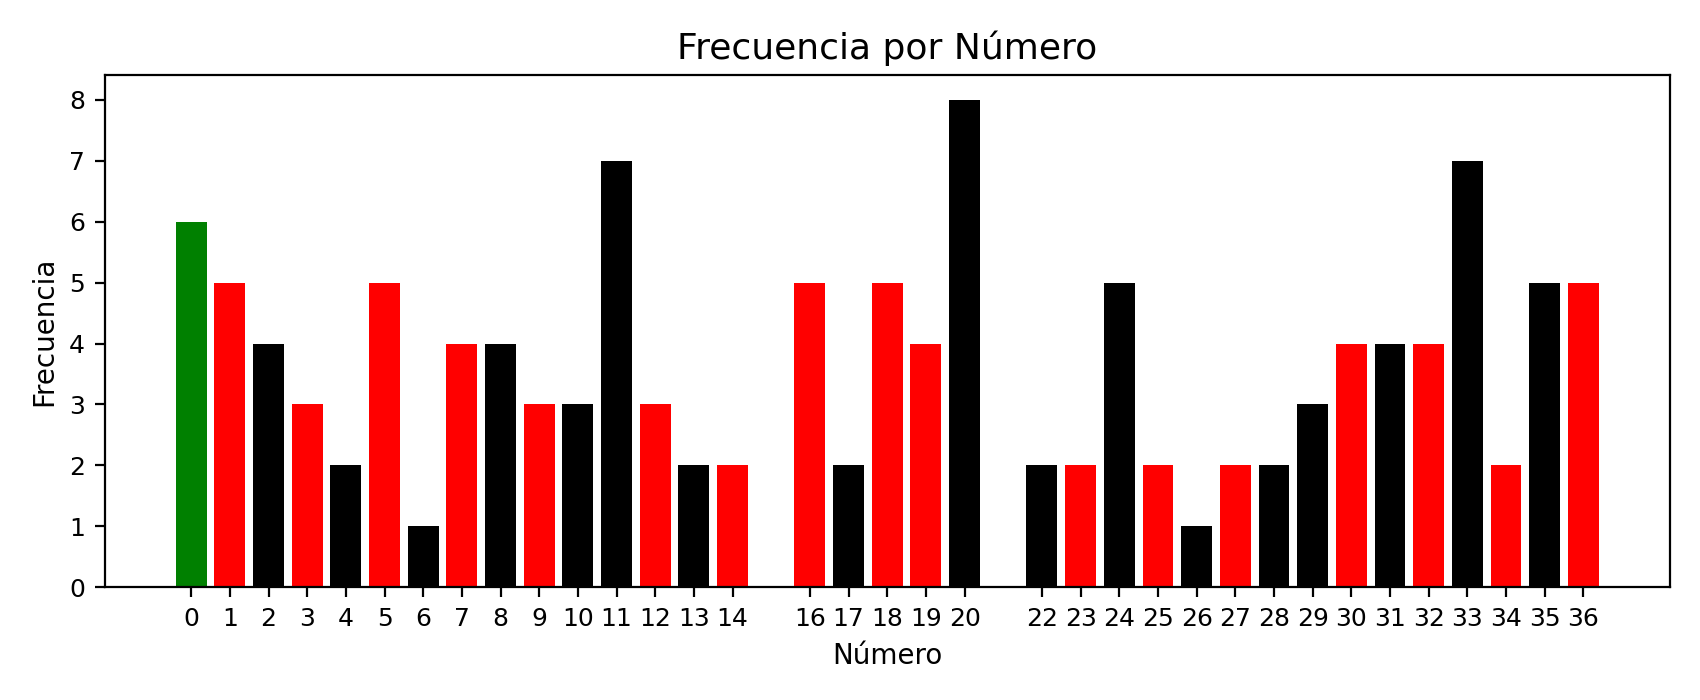
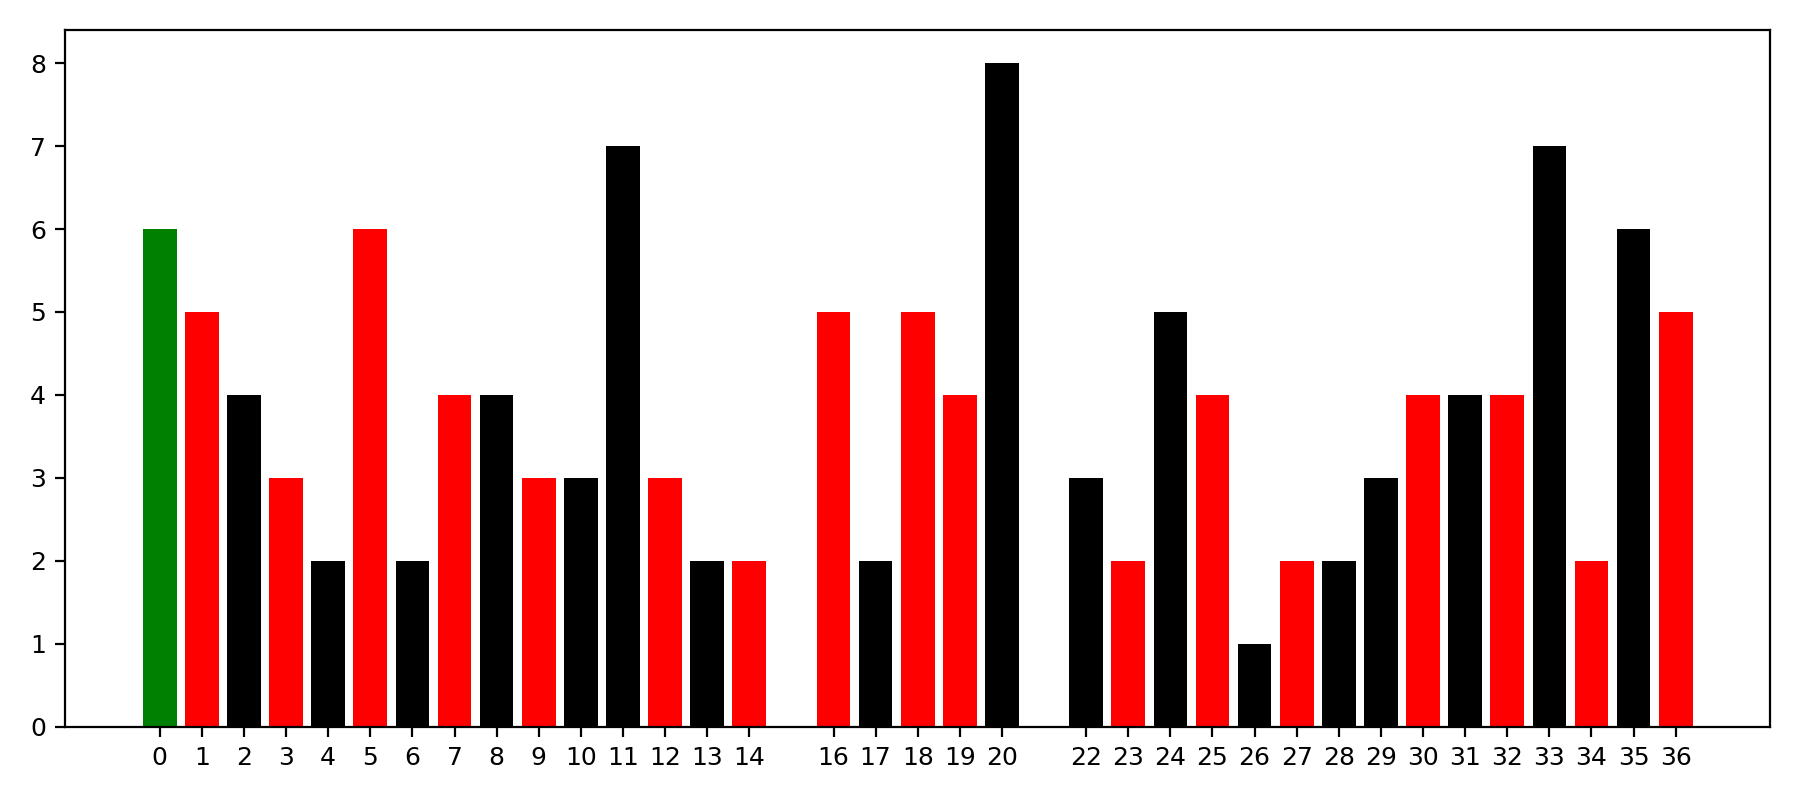
Visual colores

Changed region(s): [[0.0, 0.03, 0.9976, 0.96], [0.0, 0.06, 0.0312, 0.09]]

diff --git a/Proyecto-Casino/pantalla_estadisticas.py b/Proyecto-Casino/pantalla_estadisticas.py
@@ -2,7 +2,7 @@ import pygame
 import pyodbc
 import matplotlib.pyplot as plt
 import csv
-from config import VENTANA, ANCHO, fuente, pequena, BLANCO,ALTO
+from config import VENTANA, ANCHO, fuente, pequena, BLANCO,ALTO,NEGRO
 import os
 
 rojos = [1,3,5,7,9,12,14,16,18,19,21,23,25,27,30,32,34,36]
@@ -56,13 +56,10 @@ class PantallaEstadisticas:
                     cantidades.append(self.frecuencias[i])
                     colores_barras.append("green" if i == 0 else "red" if i in rojos else "black")
 
-            plt.figure(figsize=(8.5, 3.5), dpi=200)
+            plt.figure(figsize=(9, 4), dpi=200)
             plt.bar(numeros, cantidades, color=colores_barras)
             plt.xticks(numeros, fontsize=9)
             plt.yticks(fontsize=9)
-            plt.title("Frecuencia por Número", fontsize=13)
-            plt.xlabel("Número", fontsize=10)
-            plt.ylabel("Frecuencia", fontsize=10)
             plt.tight_layout()
             plt.savefig("grafico_barras.png")
             plt.close()
@@ -128,7 +125,7 @@ class PantallaEstadisticas:
         pass
 
     def dibujar(self, ventana):
-        ventana.fill((25, 25, 25))
+        ventana.fill(BLANCO)
 
         # Título
         titulo = fuente.render("Estadísticas de Giros", True, BLANCO)
@@ -153,10 +150,10 @@ class PantallaEstadisticas:
         x_col3 = x_col2 + 70
         x_col4 = x_col3 + 80
 
-        ventana.blit(fuente.render("Num", True, BLANCO), (x_col1, y_base))
-        ventana.blit(fuente.render("Freq", True, BLANCO), (x_col2, y_base))
-        ventana.blit(fuente.render("%", True, BLANCO), (x_col3 + 5, y_base))
-        ventana.blit(fuente.render("Color", True, BLANCO), (x_col4, y_base))
+        ventana.blit(fuente.render("Num", True, NEGRO ), (x_col1, y_base))
+        ventana.blit(fuente.render("Freq", True, NEGRO), (x_col2, y_base))
+        ventana.blit(fuente.render("%", True, NEGRO), (x_col3 + 5, y_base))
+        ventana.blit(fuente.render("Color", True, NEGRO), (x_col4, y_base))
         y_base += 30
 
         filas = [(i, self.frecuencias[i]) for i in range(37) if self.frecuencias[i] > 0]
@@ -166,20 +163,20 @@ class PantallaEstadisticas:
             i, freq = filas[idx]
             porcentaje = (freq / self.total) * 100
             color = "verde" if i == 0 else "rojo" if i in rojos else "negro"
-            ventana.blit(pequena.render(str(i), True, BLANCO), (x_col1, y_base))
-            ventana.blit(pequena.render(str(freq), True, BLANCO), (x_col2, y_base))
-            ventana.blit(pequena.render(f"{porcentaje:.1f}%", True, BLANCO), (x_col3, y_base))
-            ventana.blit(pequena.render(color, True, BLANCO), (x_col4, y_base))
+            ventana.blit(pequena.render(str(i), True, NEGRO), (x_col1, y_base))
+            ventana.blit(pequena.render(str(freq), True, NEGRO), (x_col2, y_base))
+            ventana.blit(pequena.render(f"{porcentaje:.1f}%", True, NEGRO), (x_col3, y_base))
+            ventana.blit(pequena.render(color, True, NEGRO), (x_col4, y_base))
             y_base += 22
         
         # Indicador de scroll
         if self.max_scroll > 0:
-            scroll_text = pequena.render(f"▲▼ ({self.scroll_offset+1}-{min(self.scroll_offset+filas_visibles, len(filas))}/{len(filas)})", True, BLANCO)
+            scroll_text = pequena.render(f"▲▼ ({self.scroll_offset+1}-{min(self.scroll_offset+filas_visibles, len(filas))}/{len(filas)})", True, NEGRO)
             ventana.blit(scroll_text, (x_col4 + 60, 260))
         
         
         # Total de giros
-        total_txt = fuente.render(f"Total de giros: {self.total}", True, BLANCO)
+        total_txt = fuente.render(f"Total de giros: {self.total}", True, NEGRO)
         ventana.blit(total_txt, (80, 520))
 
          # Botones pequeños y alineados abajo a la derecha
